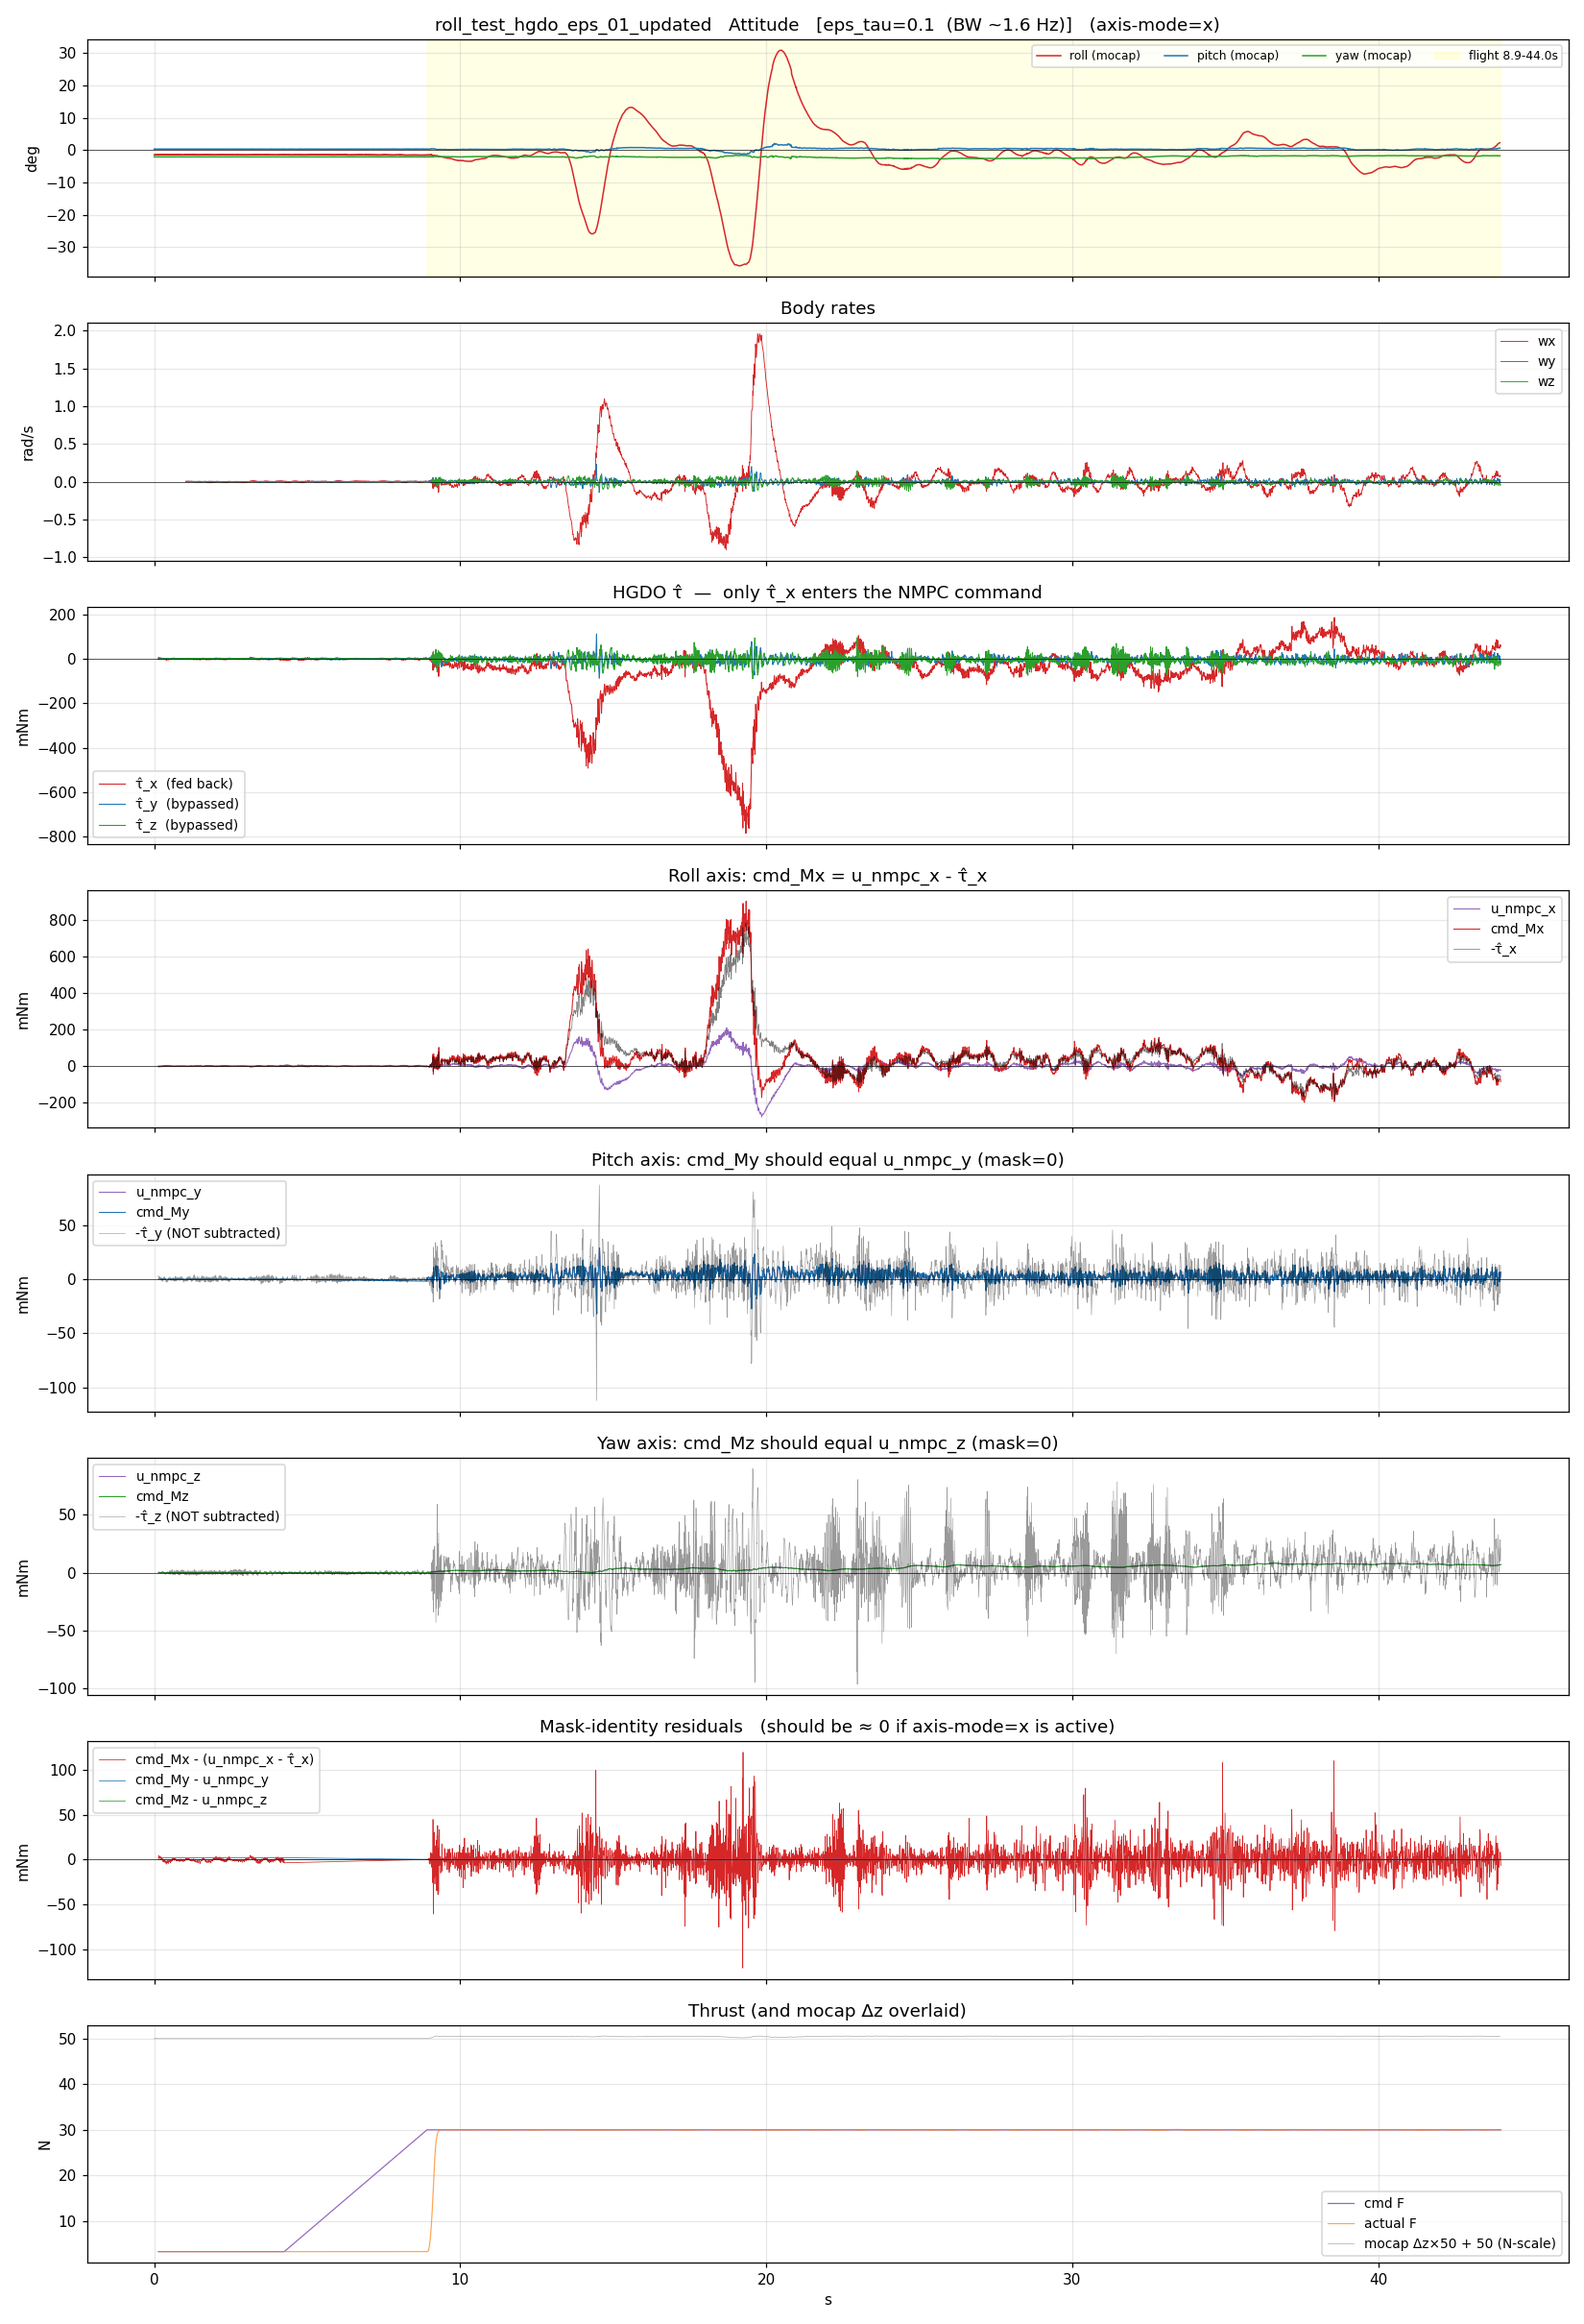
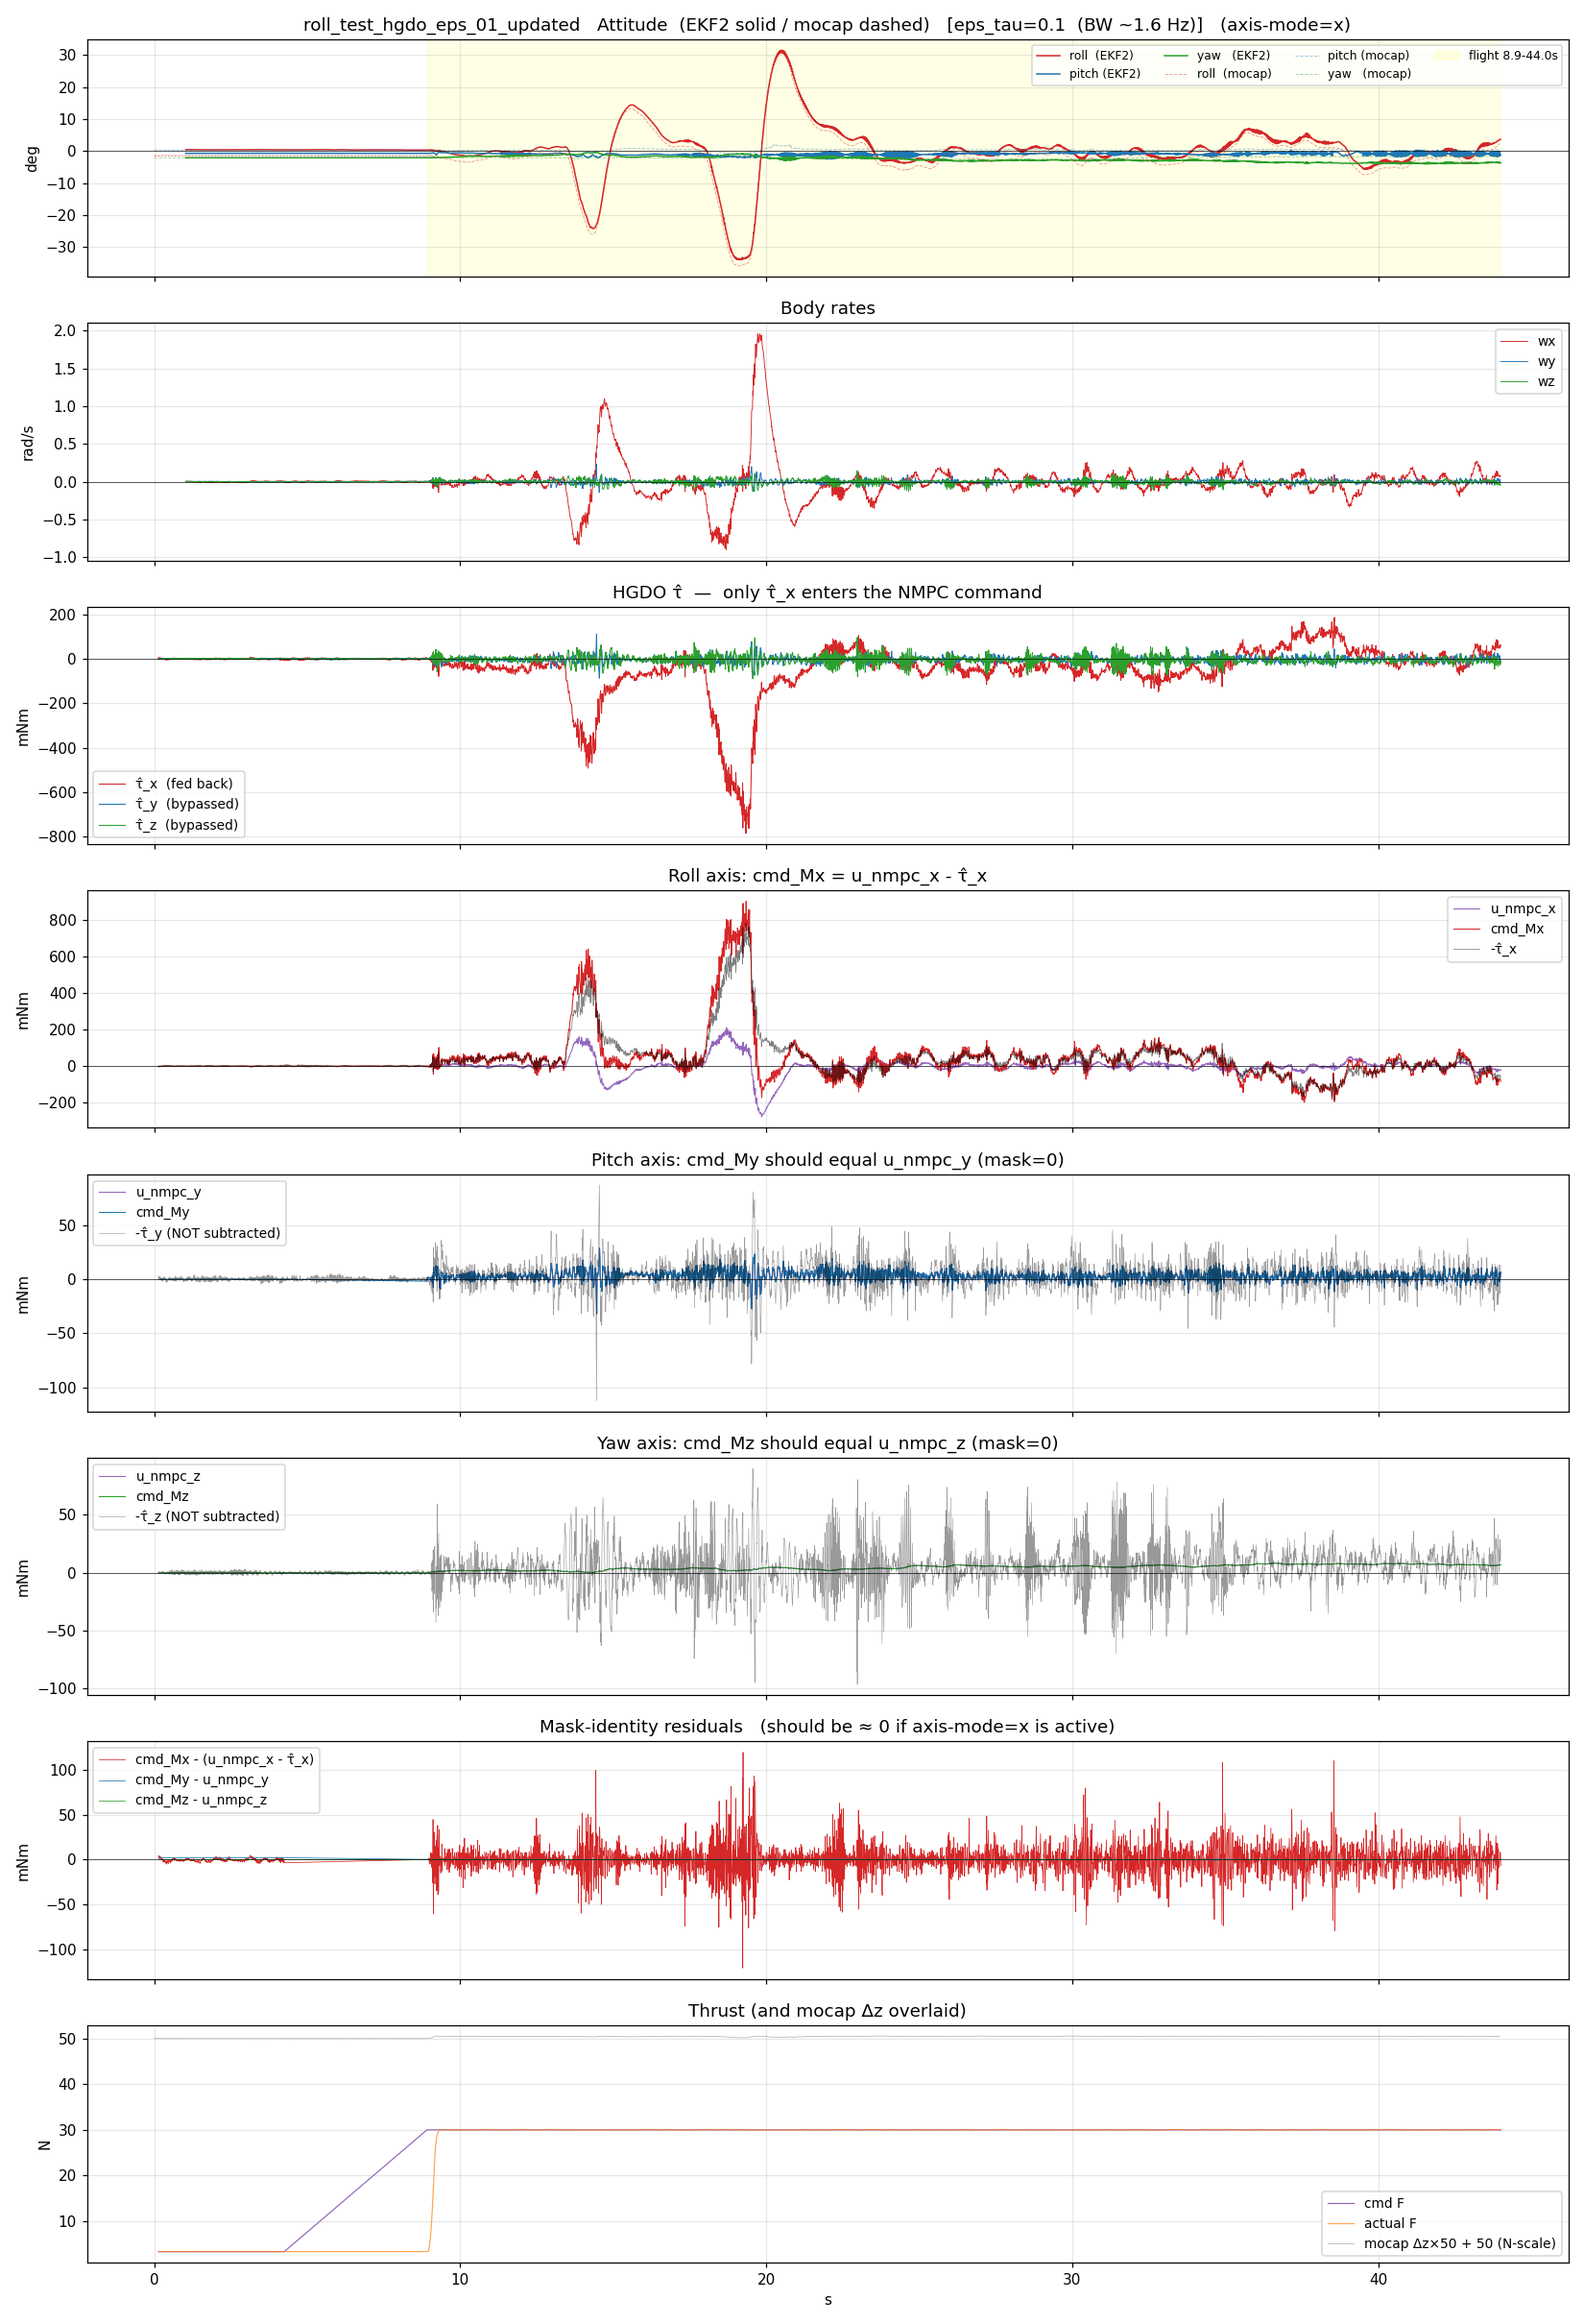
Plot roll from EKF2 (odom) as primary, mocap as dashed reference
EKF2 is what the NMPC actually closes the loop on, so it's what the
controller "sees". Mocap is kept as dashed/lighter overlay so the
closed-loop feedback vs. ground-truth gap is visible at a glance.

Added EKF2 roll mean/std columns to the steady-state stats table.

https://claude.ai/code/session_015hDTXF7MWidPDJrsc9iZ1y

Changed region(s): [[0.0927, 0.0, 0.9582, 0.093], [0.2782, 0.0, 0.5255, 0.031], [0.5564, 0.0, 0.5873, 0.031]]

diff --git a/bag_folder/analyze_roll_tests_hgdo_updated.py b/bag_folder/analyze_roll_tests_hgdo_updated.py
@@ -252,13 +252,19 @@ def per_bag_plot(name, d, out):
 
     fig, ax = plt.subplots(8, 1, figsize=(15, 22), sharex=True)
 
-    ax[0].plot(d['Tm'], d['Rm'], 'tab:red',   lw=1.0, label='roll (mocap)')
-    ax[0].plot(d['Tm'], d['Pm'], 'tab:blue',  lw=1.0, label='pitch (mocap)')
-    ax[0].plot(d['Tm'], d['Ym'], 'tab:green', lw=1.0, label='yaw (mocap)')
+    # Primary: EKF2 (mavros/local_position/odom) since that is what the
+    # NMPC actually closes the loop on. Mocap overlaid (dashed, lighter)
+    # for ground-truth reference.
+    ax[0].plot(d['T'],  d['R'], 'tab:red',   lw=1.0, label='roll  (EKF2)')
+    ax[0].plot(d['T'],  d['P'], 'tab:blue',  lw=1.0, label='pitch (EKF2)')
+    ax[0].plot(d['T'],  d['Y'], 'tab:green', lw=1.0, label='yaw   (EKF2)')
+    ax[0].plot(d['Tm'], d['Rm'], 'tab:red',   lw=0.6, ls='--', alpha=0.45, label='roll  (mocap)')
+    ax[0].plot(d['Tm'], d['Pm'], 'tab:blue',  lw=0.6, ls='--', alpha=0.45, label='pitch (mocap)')
+    ax[0].plot(d['Tm'], d['Ym'], 'tab:green', lw=0.6, ls='--', alpha=0.45, label='yaw   (mocap)')
     ax[0].axvspan(t0, t1, color='yellow', alpha=0.1, label=f'flight {t0:.1f}-{t1:.1f}s')
     ax[0].axhline(0, color='k', lw=0.4)
     ax[0].set_ylabel('deg')
-    ax[0].set_title(f'{name}   Attitude   [{LABEL[name]}]   (axis-mode=x)')
+    ax[0].set_title(f'{name}   Attitude  (EKF2 solid / mocap dashed)   [{LABEL[name]}]   (axis-mode=x)')
     ax[0].legend(ncol=4, fontsize=8); ax[0].grid(alpha=0.3)
 
     ax[1].plot(d['T'], d['WX'], 'tab:red',   lw=0.6, label='wx')
@@ -331,7 +337,8 @@ def window_stats(d, frac_end=0.5):
     t_b = t1 - 0.5
     res = {}
     pairs = [
-        ('Rm', 'Tm'), ('Pm', 'Tm'), ('Ym', 'Tm'),
+        ('R',  'T'),  ('P',  'T'),  ('Y',  'T'),     # EKF2 (what NMPC sees)
+        ('Rm', 'Tm'), ('Pm', 'Tm'), ('Ym', 'Tm'),    # mocap (ground truth)
         ('WX', 'T'),  ('WY', 'T'),  ('WZ', 'T'),
         ('Mxc', 'Tc'), ('Myc', 'Tc'), ('Mzc', 'Tc'),
         ('Mxr', 'Tr'), ('Myr', 'Tr'), ('Mzr', 'Tr'),
@@ -403,11 +410,12 @@ def mask_identity_check(d):
 def compare_plot(data, out):
     fig, ax = plt.subplots(6, 1, figsize=(15, 20), sharex=False)
 
-    ax[0].set_title('Roll (mocap)    (axis-mode=x for both)')
+    ax[0].set_title('Roll (EKF2 solid / mocap dashed)    (axis-mode=x for both)')
     for n, d in data.items():
-        ax[0].plot(d['Tm'], d['Rm'], color=COLOR[n], lw=0.8, label=f'{n}  [{LABEL[n]}]')
+        ax[0].plot(d['T'],  d['R'],  color=COLOR[n], lw=0.9, label=f'{n}  [{LABEL[n]}]  EKF2')
+        ax[0].plot(d['Tm'], d['Rm'], color=COLOR[n], lw=0.6, ls='--', alpha=0.45, label=f'{n} mocap')
     ax[0].axhline(0, color='k', lw=0.4); ax[0].set_ylabel('roll (deg)')
-    ax[0].legend(fontsize=9); ax[0].grid(alpha=0.3)
+    ax[0].legend(fontsize=8, ncol=2); ax[0].grid(alpha=0.3)
 
     ax[1].set_title('Body roll rate wx')
     for n, d in data.items():
@@ -474,20 +482,24 @@ def main():
     # Steady-state stats
     print()
     print('=== Steady-state stats (last 50% of flight window) ===')
+    print('   ekf2 = roll from /mavros/local_position/odom (closed-loop feedback)')
+    print('   mocap = /S550/pose (ground truth reference)')
     hdr = (f'{"bag":<34} | {"win":<13} | '
-           f'{"roll_μ(°)":>9} {"roll_σ(°)":>9} {"wx_σ":>6} | '
+           f'{"rollE2_μ":>9} {"rollE2_σ":>9} | '
+           f'{"rollMC_μ":>9} {"rollMC_σ":>9} | '
+           f'{"wx_σ":>6} | '
            f'{"τ̂x_μ(mNm)":>10} {"τ̂x_σ(mNm)":>10} | '
-           f'{"cmdMx_μ":>9} {"cmdMx_σ":>9} | '
-           f'{"actMx_μ":>9}')
+           f'{"cmdMx_μ":>9} {"cmdMx_σ":>9}')
     print(hdr); print('-' * len(hdr))
     for n, d in data.items():
         s = window_stats(d)
         ta, tb = s['win']
         print(f'{n:<34} | {ta:5.1f}-{tb:5.1f}s | '
-              f'{s["Rm"][0]:9.3f} {s["Rm"][1]:9.3f} {s["WX"][1]:6.3f} | '
+              f'{s["R"][0]:9.3f} {s["R"][1]:9.3f} | '
+              f'{s["Rm"][0]:9.3f} {s["Rm"][1]:9.3f} | '
+              f'{s["WX"][1]:6.3f} | '
               f'{s["Htx"][0]*1000:10.3f} {s["Htx"][1]*1000:10.3f} | '
-              f'{s["Mxc"][0]*1000:9.3f} {s["Mxc"][1]*1000:9.3f} | '
-              f'{s["Mxr"][0]*1000:9.3f}')
+              f'{s["Mxc"][0]*1000:9.3f} {s["Mxc"][1]*1000:9.3f}')
 
     # Convergence
     print()
